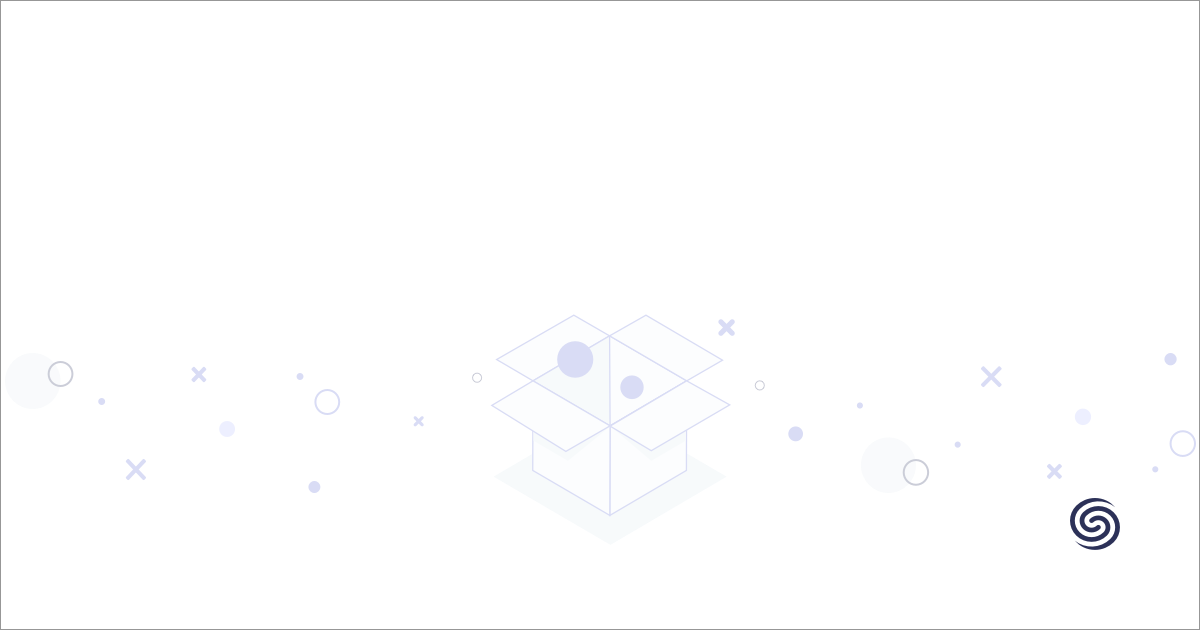
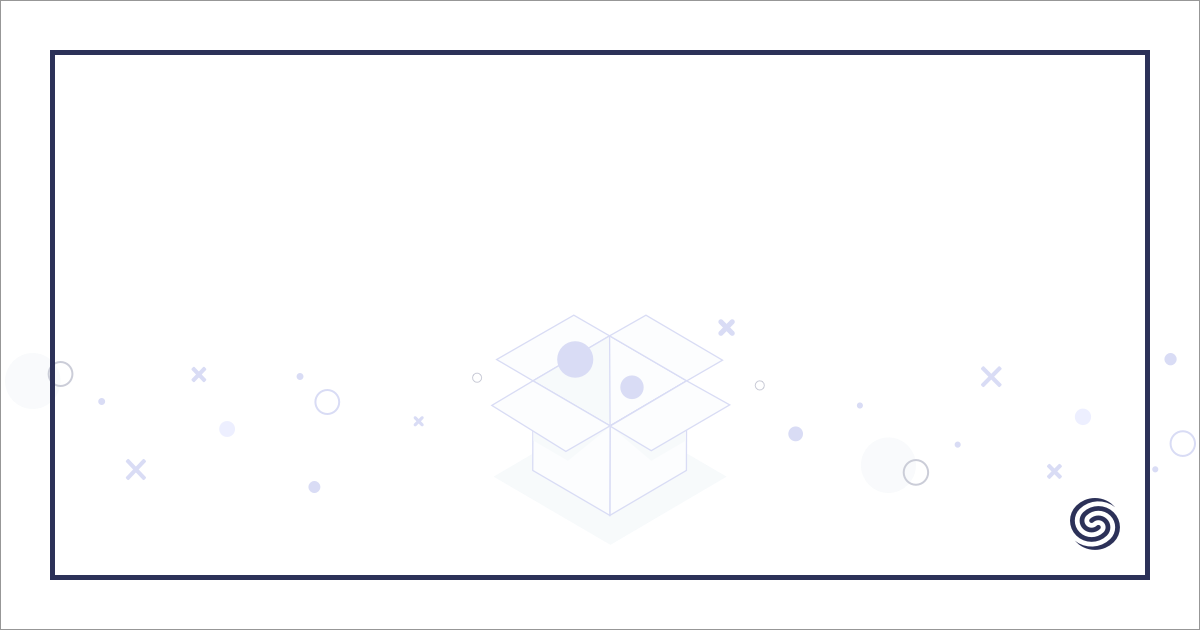
extract image creation functionality from job into a separate class

Changed region(s): [[0.0308, 0.0603, 0.9558, 0.9349]]

diff --git a/app/Jobs/GeneratePackageOpenGraphImage.php b/app/Jobs/GeneratePackageOpenGraphImage.php
@@ -2,15 +2,12 @@
 
 namespace App\Jobs;
 
-use GDText\Box;
-use GDText\Color;
+use App\OpenGraphImage;
 use Illuminate\Bus\Queueable;
 use Illuminate\Contracts\Queue\ShouldQueue;
 use Illuminate\Foundation\Bus\Dispatchable;
 use Illuminate\Queue\InteractsWithQueue;
 use Illuminate\Queue\SerializesModels;
-use Illuminate\Support\Facades\Storage;
-use Illuminate\Support\Str;
 
 class GeneratePackageOpenGraphImage implements ShouldQueue
 {
@@ -19,8 +16,6 @@ class GeneratePackageOpenGraphImage implements ShouldQueue
     protected $packageName;
     protected $packageAuthor;
     protected $packageOgImageName;
-
-    private $storageDir = 'ogimage/';
 
     /**
      * Create a new job instance.
@@ -41,83 +36,18 @@ class GeneratePackageOpenGraphImage implements ShouldQueue
      */
     public function handle()
     {
-        if (! $this->createStorageDirectory()) {
-            $this->removeExistingImagesForPackage();
+        $ogi = new OpenGraphImage($this->packageOgImageName);
+
+        if (! $ogi->makeStorageDirectory()) {
+            $ogi->removeDuplicates();
         }
 
-        $image = $this->createImage();
-
-        $this->saveImageToStorage($image);
-    }
-
-    private function createStorageDirectory(): bool
-    {
-        if (Storage::exists($this->storageDir)) {
-            return false;
-        }
-
-        Storage::makeDirectory($this->storageDir);
-        return true;
-    }
-
-    private function removeExistingImagesForPackage()
-    {
-        $files = Storage::files($this->storageDir);
-        $packageId = explode('_', $this->packageOgImageName)[0];
-        $matches = preg_grep("/{$packageId}\_/", $files);
-
-        Storage::delete($matches);
-    }
-
-    private function saveImageToStorage($image)
-    {
-        imagepng($image, storage_path($this->getImageStoragePath()));
-
-        imagedestroy($image);
-    }
-
-    private function getImageStoragePath()
-    {
-        return "app/public/{$this->storageDir}{$this->packageOgImageName}";
-    }
-
-    private function createImage()
-    {
-        $basePadding = 50;
-        $gutter = 15;
-        $height = 630;
-        $width = 1200;
-
-        $image = imagecreatefrompng(public_path('images/package-opengraph-base.png'));
-
-        $indigoDarkest = imagecolorallocate($image, 44, 49, 88);
-
-        imagesetthickness($image, 5);
-        imagerectangle(
-            $image,
-            $basePadding,
-            $basePadding,
-            ($width - $basePadding),
-            ($height - $basePadding),
-            $indigoDarkest
+        $image = $ogi->make(
+            $this->packageName,
+            "By {$this->packageAuthor}",
+            public_path('images/package-opengraph-base.png')
         );
 
-        $box = new Box($image);
-        $box->setBox(($basePadding + ($gutter * 3)), 0, $width - ($basePadding * 4), $height - ($basePadding * 2));
-        $box->setFontFace(resource_path('fonts/Roboto/Roboto-Bold.ttf'));
-        $box->setTextAlign('left', 'center');
-        $box->setFontColor(new Color(44, 49, 88));
-        $box->setFontSize(75);
-        $box->draw(Str::limit($this->packageName, 70, '...'));
-
-        $box = new Box($image);
-        $box->setBox(($basePadding + ($gutter * 3)), 0, $width, $height - ($basePadding + ($gutter * 3)));
-        $box->setFontFace(resource_path('fonts/Roboto/Roboto-Italic.ttf'));
-        $box->setTextAlign('left', 'bottom');
-        $box->setFontColor(new Color(44, 49, 88));
-        $box->setFontSize(30);
-        $box->draw('By ' . $this->packageAuthor);
-
-        return $image;
+        $ogi->save($image);
     }
 }

diff --git a/app/OpenGraphImage.php b/app/OpenGraphImage.php
@@ -1,0 +1,125 @@
+<?php
+
+namespace App;
+
+use GDText\Box;
+use GDText\Color;
+use Illuminate\Support\Facades\Storage;
+use Illuminate\Support\Str;
+
+class OpenGraphImage
+{
+    const PADDING = 50;
+    const GUTTER = 15;
+
+    protected $fileName;
+
+    /**
+     * Generate an open graph image file name.
+     *
+     * @param string $uniqueId A unique key to identify the image by.
+     * @param string $name Name of the file.
+     */
+    public static function makeFileName($uniqueId, $name): string
+    {
+        return "{$uniqueId}_" . Str::slug($name, '-') . '.png';
+    }
+
+    public function __construct($fileName)
+    {
+        $this->fileName = $fileName;
+    }
+
+    public function storageDirectory(): string
+    {
+        return config('opengraph.image_directory_name') . '/';
+    }
+
+    public function storagePath(): string
+    {
+        return Storage::disk('public')->path('') . $this->storageDirectory() . "{$this->fileName}";
+    }
+
+    public function makeStorageDirectory(): bool
+    {
+        if (Storage::exists($this->storageDirectory())) {
+            return false;
+        }
+
+        Storage::makeDirectory($this->storageDirectory());
+        return true;
+    }
+
+    public function removeDuplicates()
+    {
+        $files = Storage::files($this->storageDirectory());
+        $id = explode('_', $this->fileName)[0];
+        $matches = preg_grep("/{$id}\_/", $files);
+
+        Storage::delete($matches);
+    }
+
+    public function save($image)
+    {
+        imagepng($image, $this->storagePath($this->fileName));
+
+        imagedestroy($image);
+    }
+
+    /**
+     * Create a new image
+     *
+     * @param  string $title Main text for the image.
+     * @param  string $subtitle Subtext for the image.
+     * @param  string $baseImagePath Path to a pre-designed png image base.
+     * @param  int $width Width of the image.
+     * @param  int $height Height of the image.
+     */
+    public function make($title, $subtitle, $baseImagePath = null, $width = 1200, $height = 630)
+    {
+        if ($baseImagePath) {
+            $image = imagecreatefrompng($baseImagePath);
+        } else {
+            $image = imagecreatetruecolor($width, $height);
+
+            imagefill($image, 0, 0, imagecolorallocate($image, 255, 255, 255));
+            imagesetthickness($image, 5);
+            imagerectangle(
+                $image,
+                self::PADDING,
+                self::PADDING,
+                ($width - self::PADDING),
+                ($height - self::PADDING),
+                imagecolorallocate($image, 44, 49, 88)
+            );
+        }
+
+        $box = new Box($image);
+        $box->setBox(
+            self::PADDING * 2,
+            0,
+            $width - (self::PADDING * 4),
+            $height - (self::PADDING * 2)
+        );
+        $box->setFontFace(resource_path('fonts/Roboto/Roboto-Bold.ttf'));
+        $box->setTextAlign('left', 'center');
+        $box->setFontColor(new Color(44, 49, 88));
+        $box->setFontSize(75);
+        $box->draw(Str::limit($title, 70, '...'));
+
+        $box = new Box($image);
+        $box->setBox(
+            self::PADDING * 2,
+            0,
+            $width,
+            $height - (self::PADDING * 2)
+        );
+        $box->setFontFace(resource_path('fonts/Roboto/Roboto-Italic.ttf'));
+        $box->setTextAlign('left', 'bottom');
+        $box->setFontColor(new Color(44, 49, 88));
+        $box->setFontSize(30);
+        $box->draw($subtitle);
+
+        return $image;
+    }
+}

diff --git a/resources/views/packages/show.blade.php b/resources/views/packages/show.blade.php
@@ -7,7 +7,7 @@
     @og('title', $package['name'])
     @og('type', 'object')
     @og('url', route('packages.show', ['namespace' => $package['packagist_namespace'], 'name' => $package['packagist_name']]))
-    @og('image', url('ogimage/' . $packageOgImage))
+    @og('image', url(config('opengraph.image_directory_name') . "/{$packageOgImage}"))
     @og('description', e($package['abstract']))
     @og('site_name', 'Nova Packages')
 
@@ -16,7 +16,7 @@
 
 @section('content')
     @if (session('status'))
-        <div class="bg-green-100 border border-green-300 text-green-600 text-sm px-4 py-3 rounded mb-4">
+        <div class="px-4 py-3 mb-4 text-sm text-green-600 bg-green-100 border border-green-300 rounded">
             {{ session('status') }}
         </div>
     @endif

diff --git a/app/Console/Commands/DeleteOpenGraphImages.php b/app/Console/Commands/DeleteOpenGraphImages.php
@@ -15,7 +15,7 @@ class DeleteOpenGraphImages extends Command
     public function handle()
     {
         if (! $this->argument('package')) {
-            $files = Storage::allFiles('ogimage/');
+            $files = Storage::allFiles(config('opengraph.image_directory_name') . '/');
             Storage::delete($files);
 
             return;
@@ -23,7 +23,7 @@ class DeleteOpenGraphImages extends Command
 
         $package = Package::where('id', $this->argument('package'))->first();
 
-        $file = "ogimage/{$package->og_image_name}";
+        $file = config('opengraph.image_directory_name') . "/{$package->og_image_name}";
 
         Storage::delete($file);
     }

diff --git a/app/Package.php b/app/Package.php
@@ -2,6 +2,7 @@
 
 namespace App;
 
+use App\OpenGraphImage;
 use App\Screenshot;
 use Illuminate\Database\Eloquent\Builder;
 use Illuminate\Database\Eloquent\Model;
@@ -131,7 +132,7 @@ class Package extends Model implements Feedable
 
     public function getOgImageNameAttribute()
     {
-        return $this->id . '_' . Str::slug($this->name, '-') . '.png';
+        return OpenGraphImage::makeFileName($this->id, $this->name);
     }
 
     /**

diff --git a/tests/Feature/GeneratePackageOpenGraphImageJobTest.php b/tests/Feature/GeneratePackageOpenGraphImageJobTest.php
@@ -133,7 +133,7 @@ class GeneratePackageOpenGraphImageJobTest extends TestCase
     function createANewOpenGraphImage($packageName)
     {
         $file = '123_' . Str::slug($packageName) . '.png';
-        $filePath = 'ogimage/' . $file;
+        $filePath = config('opengraph.image_directory_name') . "/{$file}";
 
         GeneratePackageOpenGraphImage::dispatch($packageName, 'Sesame Street', $file);
 

diff --git a/config/opengraph.php b/config/opengraph.php
@@ -1,0 +1,5 @@
+<?php
+
+return [
+    'image_directory_name' => env('OPEN_GRAPH_IMAGE_DIRECTORY_NAME', 'ogimage')
+];
